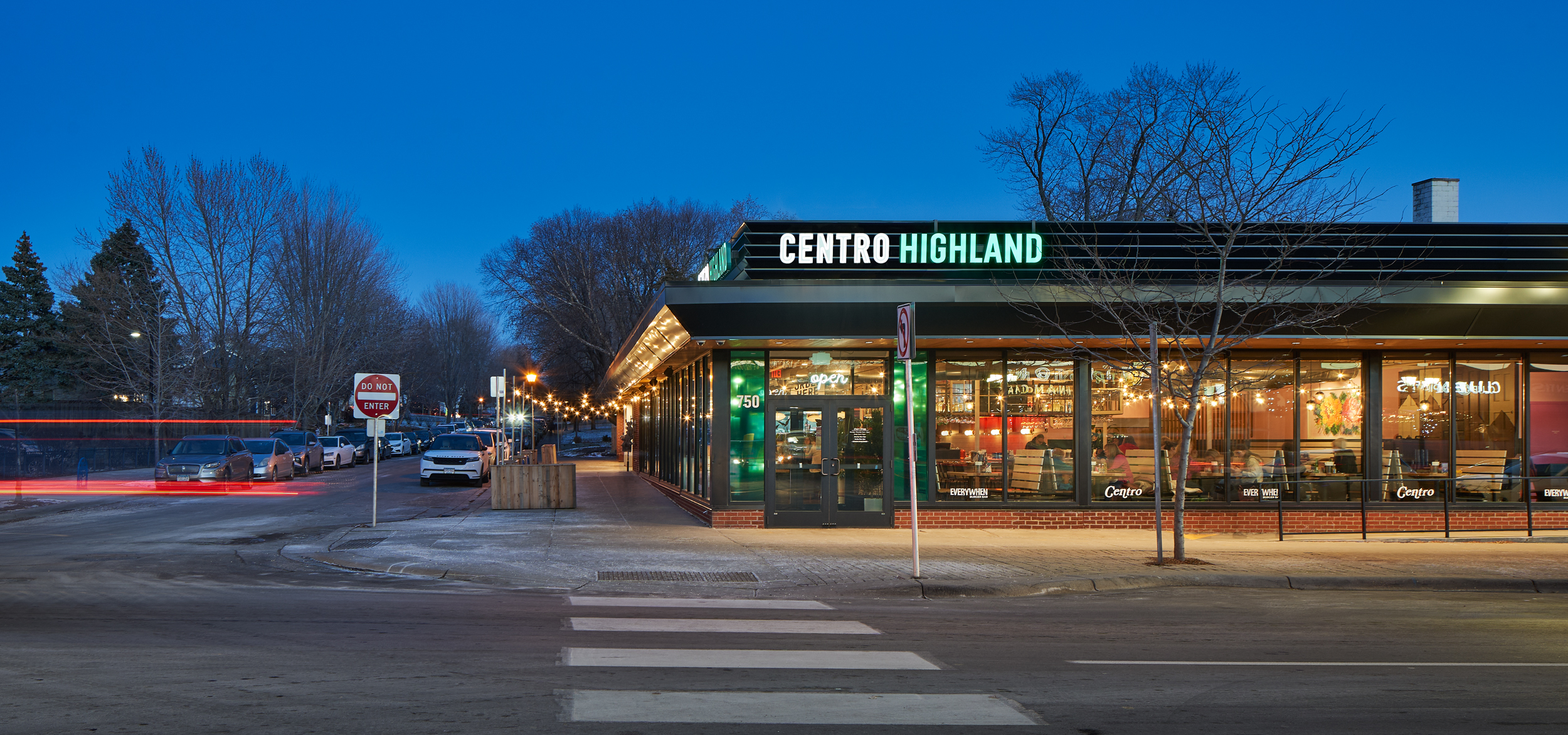
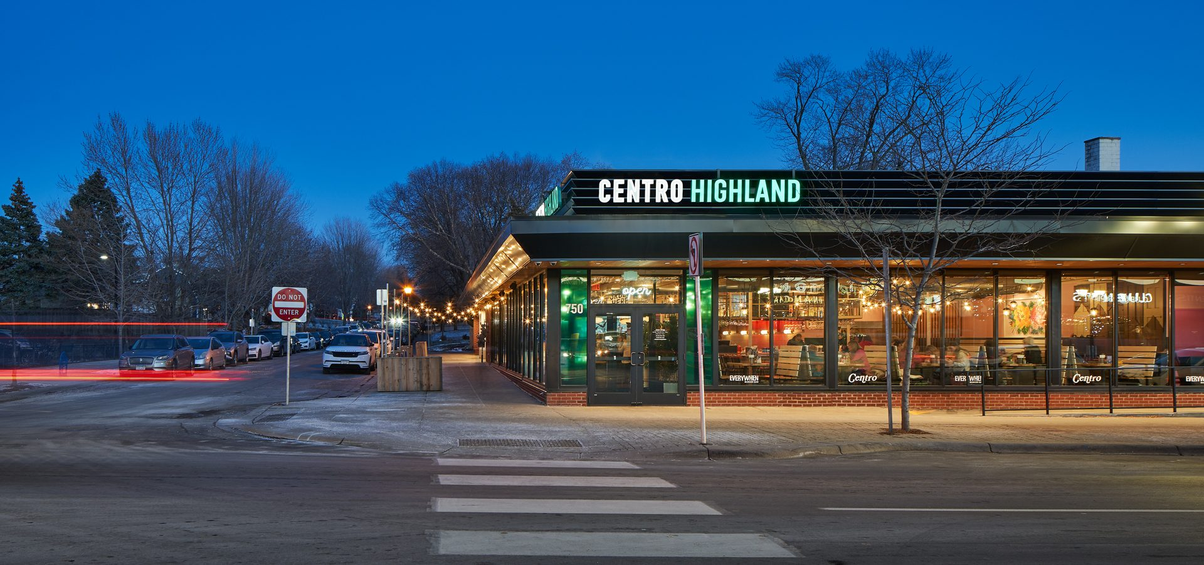
perf: compress all project and team images reducing total payload by 93% (from 57.5MB to 4.1MB)

diff --git a/scratch/compress_images.py b/scratch/compress_images.py
@@ -1,0 +1,96 @@
+import os
+from PIL import Image
+
+def get_dir_size(path):
+    total = 0
+    for root, dirs, files in os.walk(path):
+        for f in files:
+            total += os.path.getsize(os.path.join(root, f))
+    return total
+
+team_dir = "public/images/team"
+proj_dir = "public/images/projects"
+
+before_team = get_dir_size(team_dir)
+before_proj = get_dir_size(proj_dir)
+print(f"Total size before compression: {(before_team + before_proj) / (1024*1024):.2f} MB")
+print(f" - Team images: {before_team / (1024*1024):.2f} MB")
+print(f" - Project images: {before_proj / (1024*1024):.2f} MB\n")
+
+# 1. Compress Team Images (max width 800px, quality 82)
+print("=== Compressing Team Images ===")
+for f in os.listdir(team_dir):
+    f_path = os.path.join(team_dir, f)
+    if not os.path.isfile(f_path):
+        continue
+    sz_before = os.path.getsize(f_path)
+    
+    with Image.open(f_path) as im:
+        # Resize if width or height exceeds 800
+        im.thumbnail((800, 800), Image.Resampling.LANCZOS)
+        
+        if f_path.lower().endswith(".jpg") or f_path.lower().endswith(".jpeg"):
+            if im.mode in ("RGBA", "P"):
+                im = im.convert("RGB")
+            im.save(f_path, "JPEG", quality=82, optimize=True, progressive=True)
+        elif f_path.lower().endswith(".png"):
+            # If no transparency, convert to RGB or optimize PNG
+            if im.mode == "RGBA":
+                # Check if actually has transparent pixels
+                extrema = im.getextrema()
+                if extrema and len(extrema) == 4 and extrema[3][0] == 255:
+                    # Fully opaque
+                    im = im.convert("RGB")
+                    # Save as optimized PNG
+                    im.save(f_path, "PNG", optimize=True)
+                else:
+                    im.save(f_path, "PNG", optimize=True)
+            else:
+                im.save(f_path, "PNG", optimize=True)
+                
+    sz_after = os.path.getsize(f_path)
+    ratio = (1 - sz_after / sz_before) * 100
+    print(f"[OK] {f}: {sz_before / 1024:.1f} KB -> {sz_after / 1024:.1f} KB ({ratio:.1f}% reduction)")
+
+# 2. Compress Project Images (max width 1920px, max height 1200px, quality 82)
+print("\n=== Compressing Project Images ===")
+for f in os.listdir(proj_dir):
+    f_path = os.path.join(proj_dir, f)
+    if not os.path.isfile(f_path):
+        continue
+    sz_before = os.path.getsize(f_path)
+    
+    try:
+        with Image.open(f_path) as im:
+            # Resize
+            im.thumbnail((1920, 1200), Image.Resampling.LANCZOS)
+            
+            if f_path.lower().endswith(".jpg") or f_path.lower().endswith(".jpeg"):
+                if im.mode in ("RGBA", "P"):
+                    im = im.convert("RGB")
+                im.save(f_path, "JPEG", quality=82, optimize=True, progressive=True)
+            elif f_path.lower().endswith(".png"):
+                if im.mode in ("RGBA", "P"):
+                    im = im.convert("RGB")
+                    # For photos accidentally saved as PNG (like img_2.png which was 2MB photo),
+                    # convert to JPEG or save highly compressed
+                    im.save(f_path, "JPEG", quality=82, optimize=True)
+                else:
+                    im.save(f_path, "PNG", optimize=True)
+                    
+        sz_after = os.path.getsize(f_path)
+        ratio = (1 - sz_after / sz_before) * 100
+        print(f"[OK] {f}: {sz_before / 1024:.1f} KB -> {sz_after / 1024:.1f} KB ({ratio:.1f}% reduction)")
+    except Exception as e:
+        print(f"[ERR] {f} -> {e}")
+
+after_team = get_dir_size(team_dir)
+after_proj = get_dir_size(proj_dir)
+total_before = before_team + before_proj
+total_after = after_team + after_proj
+saved = (1 - total_after / total_before) * 100
+
+print(f"\n==========================================")
+print(f"Total size BEFORE: {total_before / (1024*1024):.2f} MB")
+print(f"Total size AFTER:  {total_after / (1024*1024):.2f} MB")
+print(f"Overall reduction: {saved:.1f}% (saved {(total_before - total_after) / (1024*1024):.2f} MB!)")
